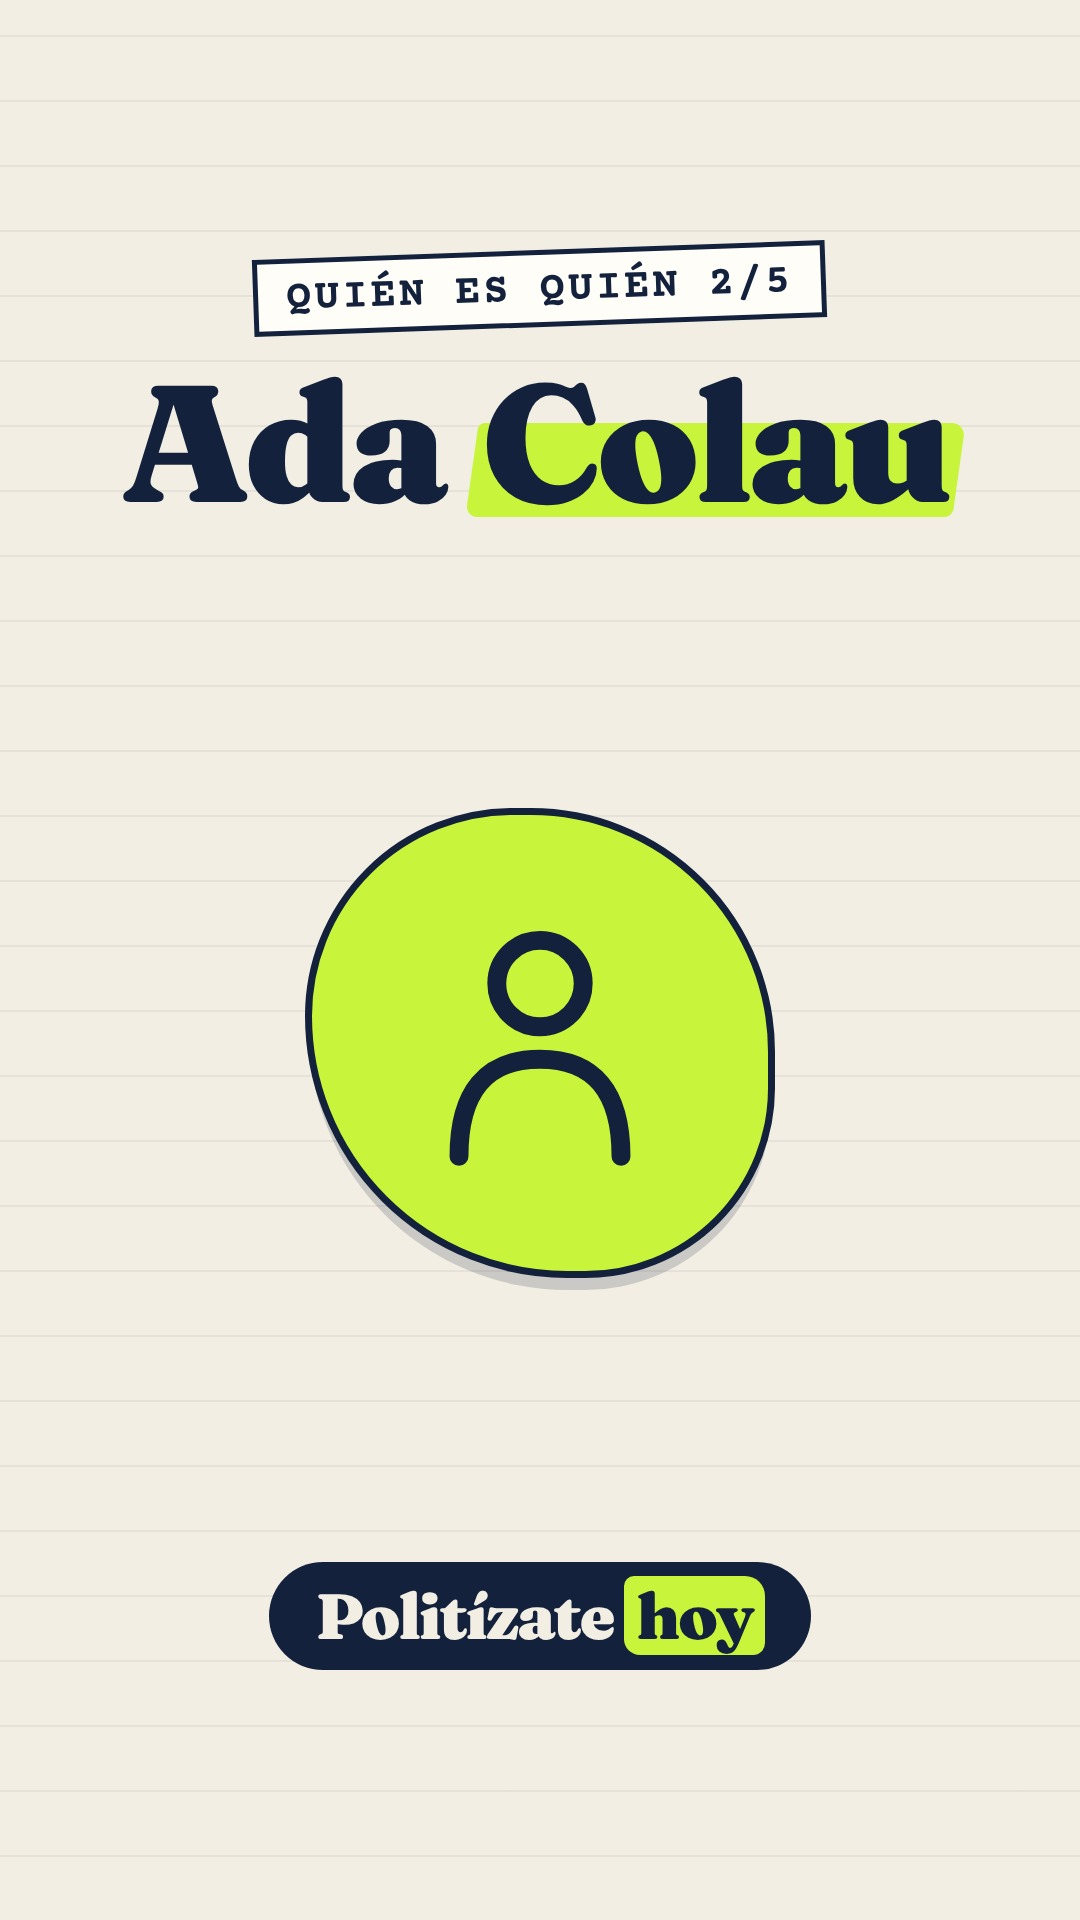
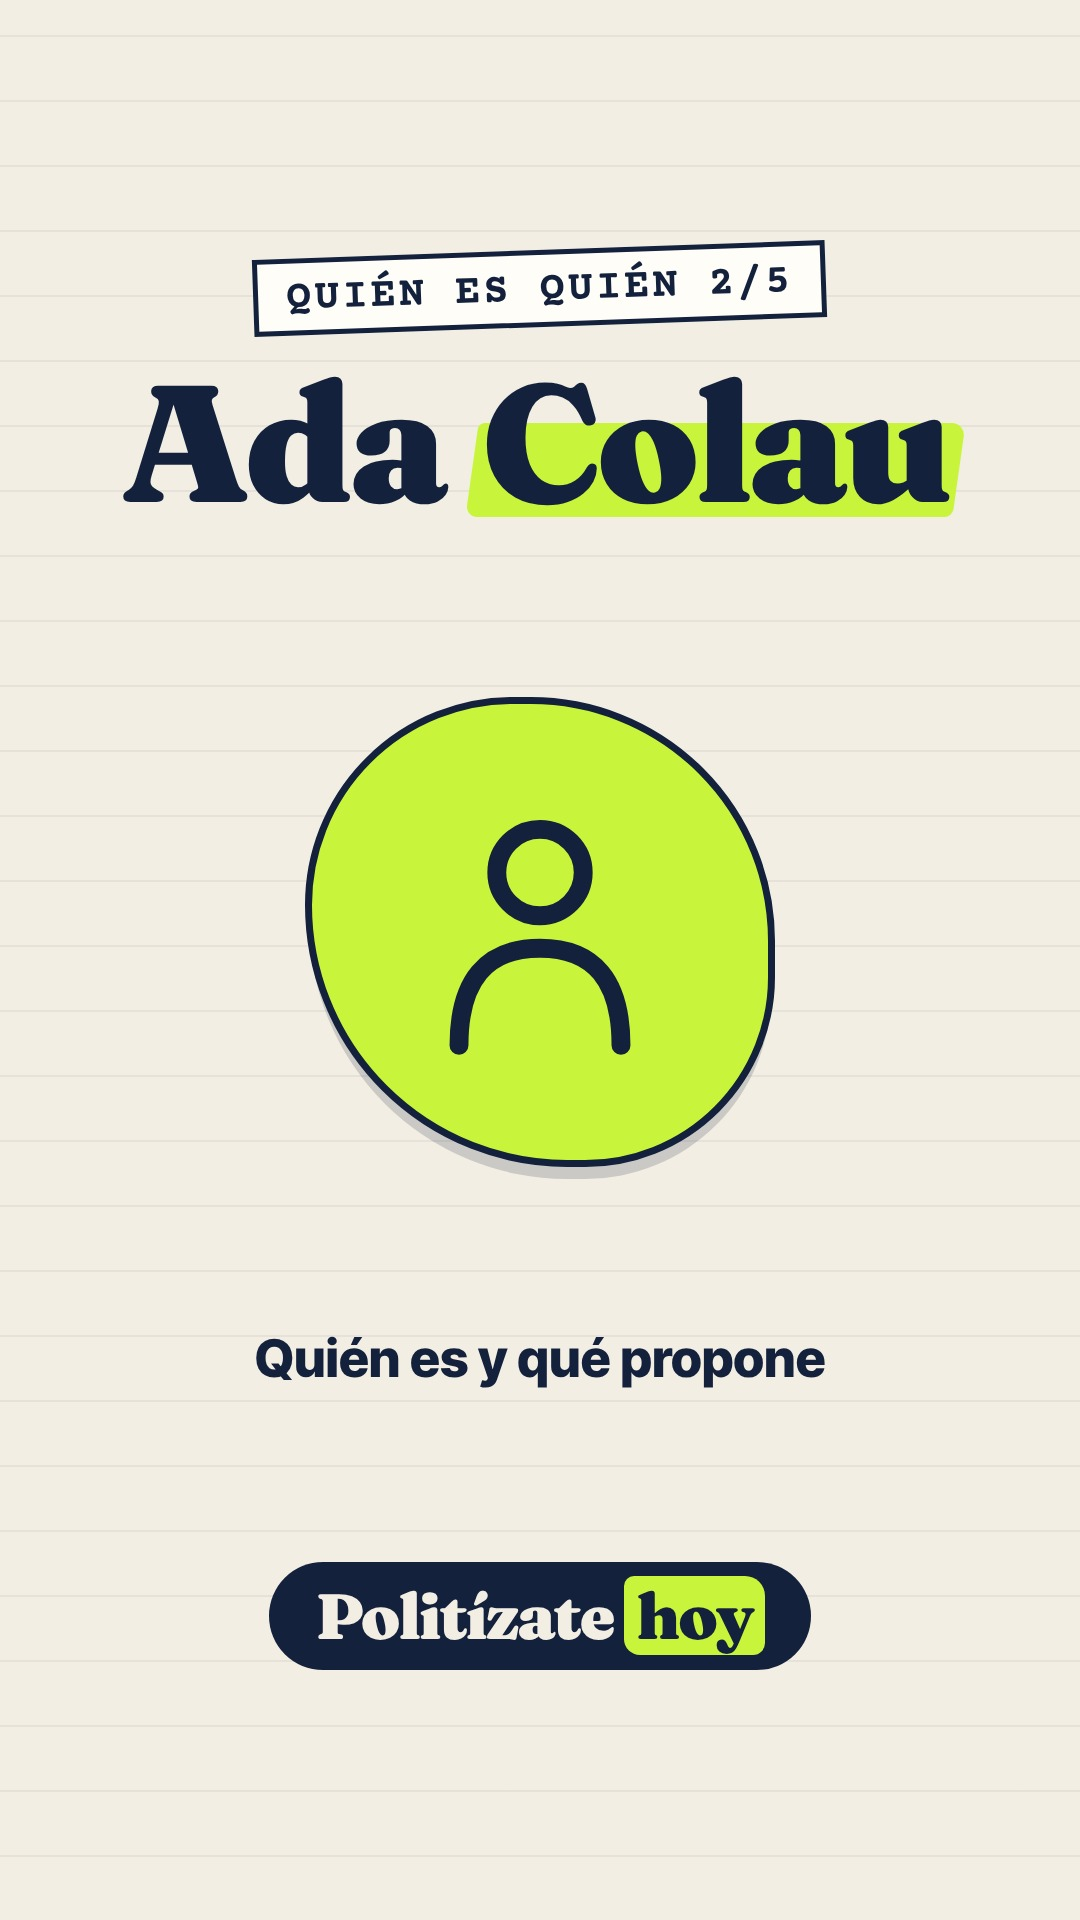
Portadas: icono de urna y subtítulos
Claude-Session: https://claude.ai/code/session_01EQgpbid6Z6ejkRKtKHbqA2

Changed region(s): [[0.2139, 0.3438, 0.7639, 0.7188]]

diff --git a/engine/slp.html b/engine/slp.html
@@ -48,6 +48,7 @@ html,body{width:1080px;height:1920px;overflow:hidden;background:var(--paper);col
 const INK='#14213D',COL={red:'#D7263D',green:'#1F9D55',ink:'#14213D'};
 const AST=(s,c=INK)=>`<svg width="${s}" height="${s}" viewBox="-50 -50 100 100">${[0,60,120].map(a=>`<rect x="-9" y="-46" width="18" height="92" rx="9" fill="${c}" transform="rotate(${a})"/>`).join('')}</svg>`;
 const ICO={
+urna:`<svg viewBox="0 0 100 100"><rect x="14" y="42" width="72" height="48" rx="6" fill="none" stroke="${INK}" stroke-width="7"/><path d="M34 42 V14 H66 V42" fill="none" stroke="${INK}" stroke-width="7" stroke-linejoin="round"/><path d="M40 26 H60 M40 34 H54" stroke="${INK}" stroke-width="6" stroke-linecap="round"/><path d="M30 58 H70" stroke="${INK}" stroke-width="7" stroke-linecap="round"/></svg>`,
 train:`<svg viewBox="0 0 100 100"><rect x="22" y="10" width="56" height="64" rx="14" fill="none" stroke="${INK}" stroke-width="7"/><path d="M22 44 H78" stroke="${INK}" stroke-width="6"/><circle cx="36" cy="59" r="5" fill="${INK}"/><circle cx="64" cy="59" r="5" fill="${INK}"/><path d="M32 74 L22 92 M68 74 L78 92" stroke="${INK}" stroke-width="7" stroke-linecap="round"/></svg>`,
 clock:`<svg viewBox="0 0 100 100"><circle cx="50" cy="50" r="40" fill="none" stroke="${INK}" stroke-width="7"/><path d="M50 26 V50 L66 60" fill="none" stroke="${INK}" stroke-width="7" stroke-linecap="round" stroke-linejoin="round"/></svg>`,
 phone:`<svg viewBox="0 0 100 100"><path d="M30 12 L44 26 L36 38 Q46 58 62 64 L74 56 L88 70 L78 84 Q40 86 16 24 Z" fill="none" stroke="${INK}" stroke-width="7" stroke-linejoin="round"/></svg>`,
